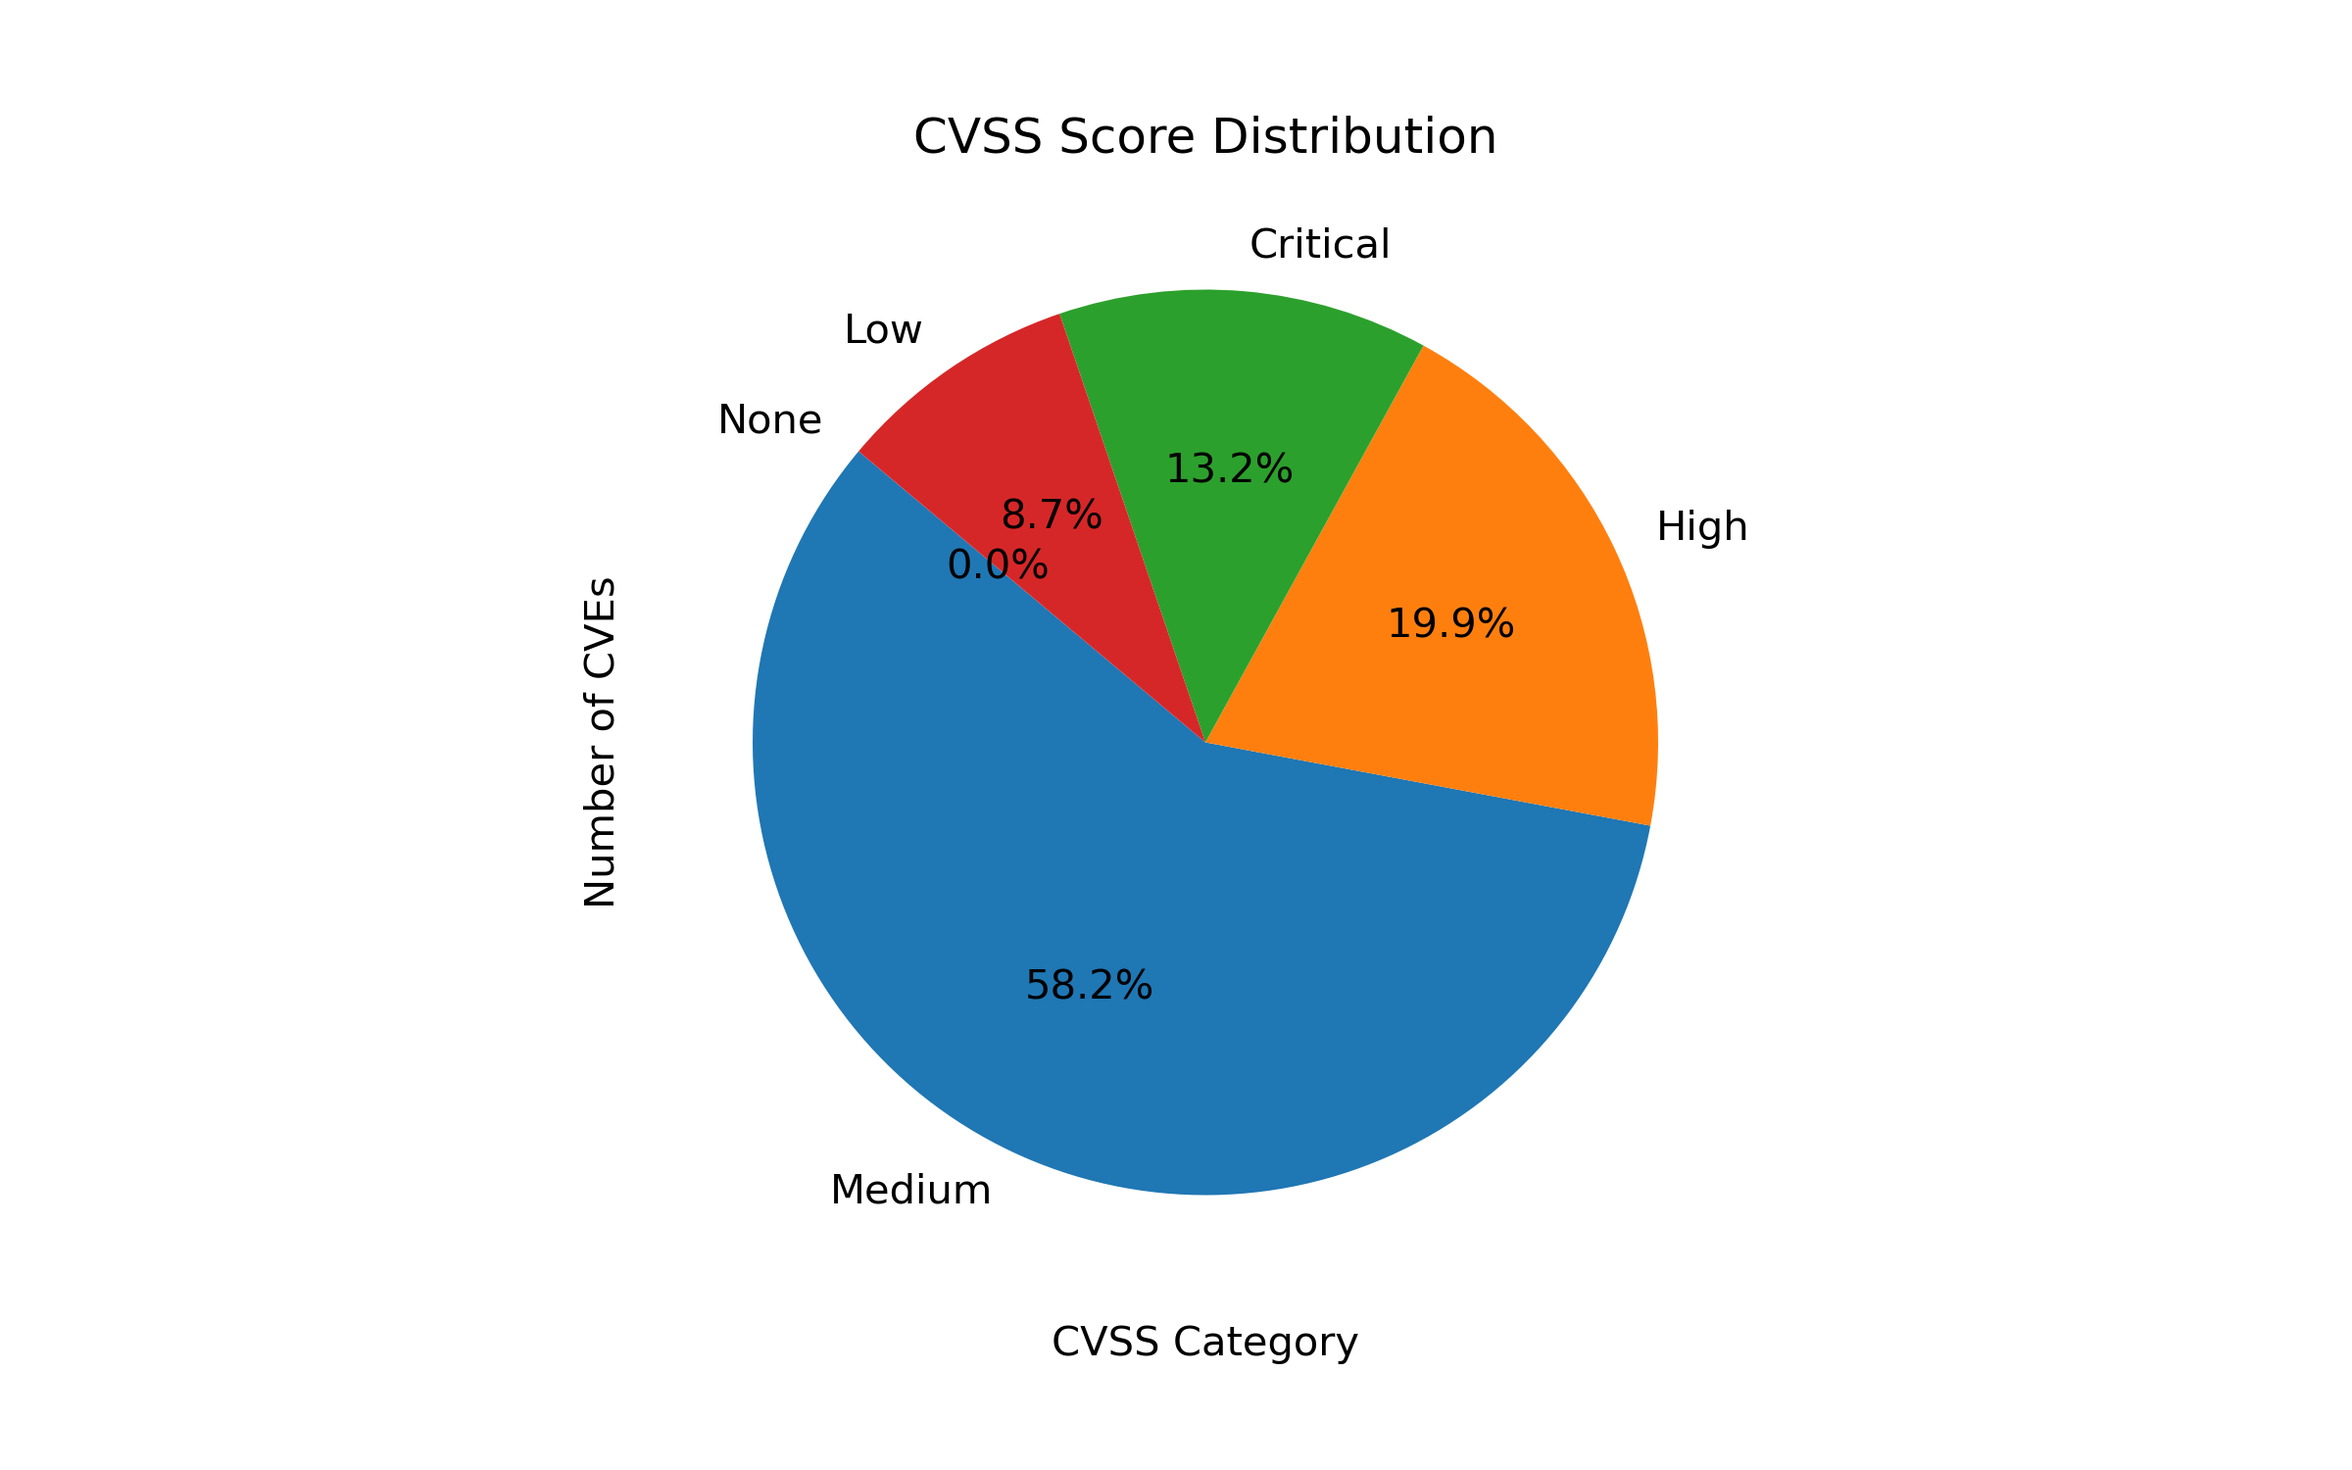
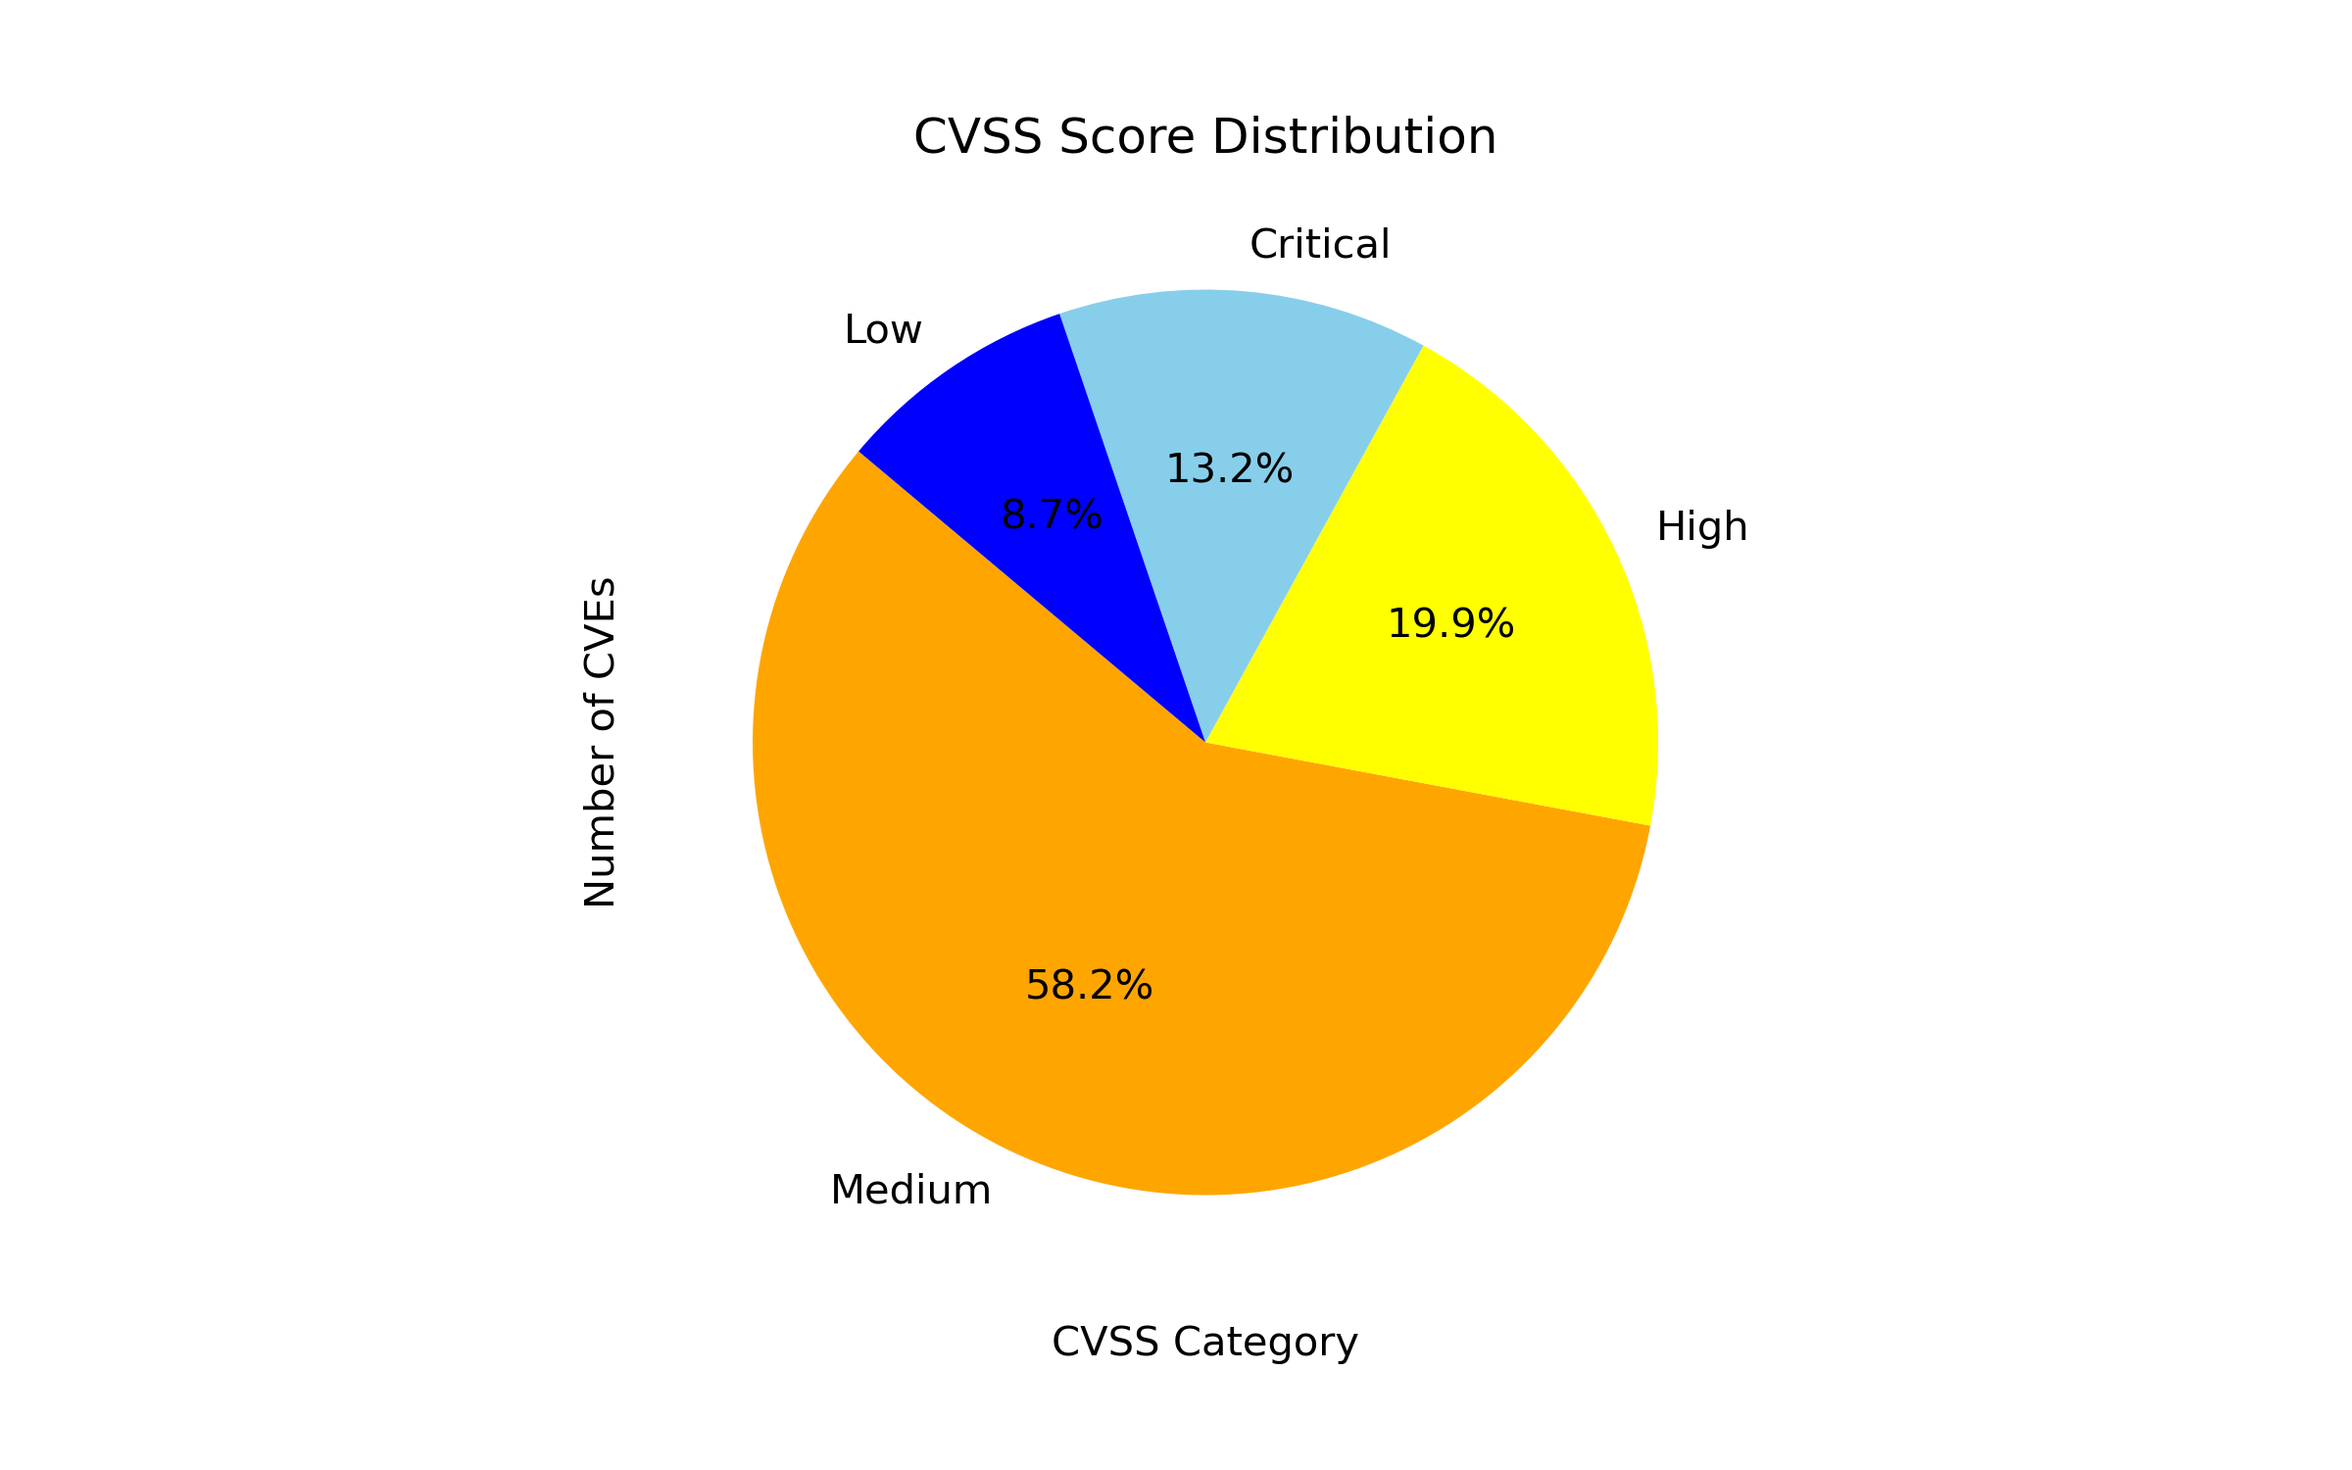
week2 update

Changed region(s): [[0.3125, 0.184, 0.7188, 0.828]]

diff --git a/cve_parser.py b/cve_parser.py
@@ -22,7 +22,7 @@ def count_cves_per_year(cve_data):
 
 # Function to parse different attack vectors
 def attack_vector_parse(cve_data):
-    """Parse and visualize the 'access_vector' data from CVE dataset."""
+    # Parse and visualize the 'access_vector' data from CVE dataset.
     
     # Count the number of occurrences for each attack vector
     attack_vector_count = cve_data['access_vector'].value_counts().reset_index()
@@ -33,14 +33,10 @@ def attack_vector_parse(cve_data):
 
     # Plotting
     plt.figure(figsize=(8, 5))
-    plt.bar(attack_vector_count['access_vector'], attack_vector_count['Count'], 
-            color=['#1f77b4', '#ff7f0e', '#2ca02c', '#d62728'])
-
+    plt.pie(attack_vector_count['Count'], 
+            labels=attack_vector_count['access_vector'], autopct='%1.1f%%',
+            startangle=140)
     plt.title('Attack Vector Distribution')
-    plt.xlabel('Access Vector')
-    plt.ylabel('Count')
-    plt.xticks(rotation=45, ha='right')
-    plt.grid(axis='y', linestyle='--', alpha=0.5)
 
     # Save and display the chart
     plt.tight_layout()
@@ -72,14 +68,15 @@ def impact_parse(cve_data):
         print(impact_counts)
 
         # Plotting
+        colors = ['orange', 'lightblue', 'blue']
         plt.figure(figsize=(8, 5))
-        plt.bar(impact_counts[impact], impact_counts['Count'], 
-                color=['#1f77b4', '#ff7f0e', '#2ca02c'])
+        plt.pie(impact_counts['Count'], 
+                labels=impact_counts[impact], 
+                autopct='%1.1f%%', 
+                startangle=140,
+                colors=colors)
 
         plt.title(f'{impact} Impact Distribution')
-        plt.xlabel('Impact Level')
-        plt.ylabel('Count')
-        plt.xticks(rotation=45, ha='right')
         plt.grid(axis='y', linestyle='--', alpha=0.5)
 
         # Save and display the chart
@@ -99,7 +96,7 @@ def cves_show(cves_per_year):
     plt.figure(figsize=(8, 5))
     plt.plot(cves_over_time['year'].astype(str), 
              cves_over_time['Count'], 
-             linestyle='-', color='black')
+             linestyle='-', color='darkblue')
 
     plt.title('CVEs Over Time')
     plt.xlabel('Years')
@@ -113,3 +110,103 @@ def cves_show(cves_per_year):
 
     # Display the chart
     plt.show()
+
+def impact_parse_grouped(cve_data):
+    """Draw a grouped bar chart comparing impact levels across dimensions."""
+
+    import numpy as np
+
+    # List of impact categories
+    impact_columns = [
+        'impact_confidentiality',
+        'impact_integrity',
+        'impact_availability'
+    ]
+
+    # Dictionary to store parsed data
+    impact_data = {}
+
+    for impact in impact_columns:
+        impact_counts = cve_data[impact].value_counts().reset_index()
+        impact_counts.columns = ['Impact Level', 'Count']
+        impact_counts.set_index('Impact Level', inplace=True)
+        impact_data[impact] = impact_counts
+
+    # Create a combined DataFrame
+    df = pd.concat(impact_data, axis=1)
+    df.columns = df.columns.droplevel(1)  # Flatten multi-index
+    df = df.reindex(['NONE', 'PARTIAL', 'COMPLETE'])
+
+    # Bar plot setup
+    x = np.arange(len(df.index))
+    width = 0.25
+
+    plt.figure(figsize=(10, 6))
+    plt.bar(x - width, df['impact_confidentiality'], width, label='Confidentiality', color='#a6bddb')
+    plt.bar(x, df['impact_integrity'], width, label='Integrity', color='#3690c0')
+    plt.bar(x + width, df['impact_availability'], width, label='Availability', color='#0570b0')
+
+    plt.xlabel('Impact Level')
+    plt.ylabel('Count')
+    plt.title('Impact Level Distribution Across Dimensions')
+    plt.xticks(x, df.index)
+    plt.legend(title='Impact Type')
+    plt.tight_layout()
+    plt.savefig('./figures/impact_level_distribution_grouped.png', dpi=300, transparent=True)
+    plt.show()
+
+
+def vulnerable_product_parser_top3(products_data):
+    # Ensure column names are stripped and in lowercase
+    print(products_data.columns)
+    print(products_data.head(10)) 
+    products_data.columns = products_data.columns.str.strip().str.lower()
+    
+    # Extract year from CVE ID (e.g., 'CVE-2019-12345' → 2019)
+    products_data['year'] = products_data['cve_id'].str.extract(r'CVE-(\d{4})')[0].astype(int)
+
+    # Filter to include only the last 5 years
+    products_data = products_data[products_data['year'] >= (products_data['year'].max() - 4)]
+
+    # Count occurrences of each product per year
+    grouped = products_data.groupby(['year', 'vulnerable_product']).size().reset_index(name='Count')
+
+    # Get top 3 products per year
+    top3_per_year = grouped.groupby('year').apply(lambda x: x.nlargest(3, 'Count')).reset_index(drop=True)
+
+    # Pivot for plotting
+    pivot_df = top3_per_year.pivot(index='vulnerable_product', columns='year', values='Count').fillna(0)
+
+    # Plot
+    pivot_df.T.plot(kind='bar', figsize=(12, 6), width=0.7)
+    plt.xlabel('Year')
+    plt.ylabel('Number of Vulnerabilities')
+    plt.title('Top 3 Vulnerable Products Per Year')
+    plt.legend(title='Product', bbox_to_anchor=(1.05, 1), loc='upper left')
+    plt.tight_layout()
+    plt.savefig('./figures/top_3_vulnerable_products_per_year.png', dpi=300, transparent=True)
+    plt.show()
+
+    return top3_per_year
+
+
+def vulnerable_product_parser(products_data):
+    # Ensure column names are stripped and in lowercase
+    products_data.columns = products_data.columns.str.strip().str.lower()
+
+    # Count total CVEs per product
+    product_counts = products_data['vulnerable_product'].value_counts().nlargest(10).reset_index()
+    product_counts.columns = ['Product', 'CVE Count']
+
+    # Plot horizontal bar chart
+    plt.figure(figsize=(10, 6))
+    plt.barh(product_counts['Product'], product_counts['CVE Count'], color='blue')
+    plt.xlabel('Number of CVEs')
+    plt.ylabel('Product')
+    plt.title('Top 10 Most Affected Products')
+    plt.gca().invert_yaxis()  # Highest value at the top
+    plt.tight_layout()
+    plt.savefig('./figures/top_10_vulnerable_products.png', dpi=300, transparent=True)
+    plt.show()
+
+    return product_counts

diff --git a/dataset_loader.py b/dataset_loader.py
@@ -7,19 +7,19 @@ def load_data():
     print(f"Load Dataset Function Call! ")
     cve = pd.read_csv('./dataset/cve.csv')  
     products = pd.read_csv('./dataset/products.csv')
-    vendor_product = pd.read_csv('./dataset/vendor_product.csv')
+    #vendor_product = pd.read_csv('./dataset/vendor_product.csv')
     vendors = pd.read_csv('./dataset/vendors.csv')  
 
     # Cleanup Function Call!
-    cve_cleaned, products_cleaned, vendor_product_cleaned, vendors_cleaned = cleanup(cve, products, vendor_product, vendors)
+    cve_cleaned, products_cleaned, vendors_cleaned = cleanup(cve, products, vendors)
 
     # CVSS categorisation # this will add a new column to the dataset to annotate the cvss score to a rating either Low, Medium, High, Critical
     cve_cleaned = add_cvss_category(cve_cleaned)
     
-    return cve_cleaned, products_cleaned, vendor_product_cleaned, vendors_cleaned
+    return cve_cleaned, products_cleaned, vendors_cleaned
 
 
-def cleanup(cve, products, vendor_product, vendors):
+def cleanup(cve, products, vendors):
 
     print(f"Cleanup Function Call! ")
     
@@ -45,11 +45,12 @@ def cleanup(cve, products, vendor_product, vendors):
     # Remove rows with missing (NaN) values in the specified columns
     cve_cleaned = cve.dropna(subset=columns_to_check)
 
+    cve_cleaned = cve_cleaned[cve_cleaned['cvss'] != 0]  # Remove rows with CVSS score of 0
+
     # Report the number of rows after cleaning
     after_cleaning = len(cve_cleaned)
     delta = before_cleaning - after_cleaning
 
-    #print(f"Rows after cleaning: {after_cleaning}")
     print(f"CVEs - rows removed (cleaned): {delta}")
 
     # Remove duplicate CVE IDs
@@ -57,21 +58,15 @@ def cleanup(cve, products, vendor_product, vendors):
     cve_cleaned = cve_cleaned.drop_duplicates(subset=cve_cleaned.columns[0])  # Assuming CVE ID is the first column
     after_dedup = len(cve_cleaned)
     duplicates_removed = before_dedup - after_dedup
+    
     print(f"Duplicate CVE entries removed: {duplicates_removed}")
 
     # Clean products DataFrame
     products_cleaned = products.dropna(subset=['cve_id', 'vulnerable_product'])
     print(f"Products - rows removed: {len(products) - len(products_cleaned)}")
 
-    # Clean vendor_product DataFrame
-    vendor_product_cleaned = vendor_product.dropna(subset=['vendor', 'product'])
-    print(f"Vendor_Product - rows removed: {len(vendor_product) - len(vendor_product_cleaned)}")
-
     # Clean vendors DataFrame
     vendors_cleaned = vendors.dropna(subset=['vendor'])
     print(f"Vendors - rows removed: {len(vendors) - len(vendors_cleaned)}")
-
-    # I want to print some blank space before entering the new feature
-    print("\n\n\n\n")
           
-    return cve_cleaned, products_cleaned, vendor_product_cleaned, vendors_cleaned
+    return cve_cleaned, products_cleaned, vendors_cleaned

diff --git a/main.py b/main.py
@@ -10,7 +10,7 @@ from dataset_loader import load_data
 from cvss_categoriser import add_cvss_category, cvss_statistics, cvss_show
 from vendors_parser import vendors_statistics, vendors_show
 from cwe_parser import cwes_statistics, cwes_show
-from cve_parser import count_cves_per_year, cves_show,attack_vector_parse,impact_parse
+from cve_parser import count_cves_per_year, cves_show,attack_vector_parse,impact_parse,impact_parse_grouped,vulnerable_product_parser
 
 def print_cve_info(cve):
     """Display basic CVE information."""
@@ -18,11 +18,12 @@ def print_cve_info(cve):
     print(cve.info())
 
 def main():
-    """Main execution function."""
+    # Main execution function
     print("Analysis and Reporting Module")
+    print("===================================\n")
 
-    # Load the data
-    cve, products, vendor_product, vendors = load_data()
+    # Load the data and clean it
+    cve, products, vendors = load_data()
 
     # CVSS Analysis
     cvss_counts = cvss_statistics(cve)
@@ -32,23 +33,27 @@ def main():
     # print_cve_info(vendors)
 
     # Vendors Analysis
-    # vendors_count = vendors_statistics(vendors)
-    # vendors_show(vendors_count)
+    vendors_count = vendors_statistics(vendors)
+    vendors_show(vendors_count)
 
     # CWE Analysis
     cwes_count = cwes_statistics(cve)
     cwes_show(cwes_count)
-
+    
     # CVEs per Year
     cves_per_year = count_cves_per_year(cve)
     cves_show(cves_per_year)
 
     # Attack Vector Statistics
-    # attack_vector_parse(cve)
+    attack_vector_parse(cve)
 
     # Impact Statistics
-    # impact_parse(cve)
+    impact_parse(cve)
+    impact_parse_grouped(cve)
     
+    # vulnerable products
+    print(products.columns)
+    vulnerable_product_parser(products)
     # Cleanup
     del cve, products, vendor_product, vendors, cvss_counts
 

diff --git a/cvss_categoriser.py b/cvss_categoriser.py
@@ -12,12 +12,12 @@ def categorise_cvss(score):
     elif 1.0 <= score < 4.0:
         return 'Low'
     else:
-        return 'None'
+        return print(f"Invalid CVSS score: {score}. It should be a number between 0 and 10.")
 
 def add_cvss_category(cve_df):
     """Add the CVSS category column to the DataFrame."""
     cve_df['cvss_category'] = cve_df['cvss'].apply(categorise_cvss)
-    print(f" cvss_category Column has been added! ")
+    print(f"cvss_category Column has been added! ")
     print("\n\n")
 
     return cve_df
@@ -31,10 +31,11 @@ def cvss_statistics(cve_df):
     return cvss_counts_df
 
 def cvss_show(cvss_counts):
-    """ draw the figure and save it in figures folder """
-    """ Bar chart visualization """
+    # draw the figure and save it in figures folder
+    colors = ['orange', 'yellow', 'skyblue', 'blue']
+        
     plt.figure(figsize=(8, 5))
-    plt.pie(cvss_counts['Count'], labels=cvss_counts['CVSS Category'], autopct='%1.1f%%', startangle=140)
+    plt.pie(cvss_counts['Count'], labels=cvss_counts['CVSS Category'], autopct='%1.1f%%', startangle=140, colors=colors)
 
     plt.title('CVSS Score Distribution')
     plt.xlabel('CVSS Category')

diff --git a/vendors_parser.py b/vendors_parser.py
@@ -13,17 +13,17 @@ def vendors_statistics(vendors):
 # Function to display vendor data
 def vendors_show(vendors_count):
     """ draw the figure and save it in figures folder """
-    """ Bar chart visualization """
-# Ensure only top 10 vendors are plotted
+    # Ensure only top 10 vendors are plotted
     top_10_vendors = vendors_count.nlargest(10, 'Count')
+    top_10_vendors = top_10_vendors.sort_values(by='Count')
 
     plt.figure(figsize=(8, 5))
-    plt.bar(top_10_vendors['vendor'], top_10_vendors['Count'], 
-            color=['red', 'orange', 'yellow', 'green', 'gray'])
+    plt.barh(top_10_vendors['vendor'], top_10_vendors['Count'], 
+             color=plt.cm.viridis_r(top_10_vendors['Count'] / top_10_vendors['Count'].max()))
 
     plt.title('Top 10 Most Affected Vendors')
-    plt.xlabel('Vendor')
-    plt.ylabel('Number of CVEs')
+    plt.xlabel('Number of CVEs')
+    plt.ylabel('Vendor')
     plt.xticks(rotation=45, ha='right')  # Rotate labels for readability
 
     # Save the figure

diff --git a/cwe_parser.py b/cwe_parser.py
@@ -35,13 +35,13 @@ def cwes_show(cwes_count):
     cwe_labels = top_10_cwes['cwe_code'].astype(str).apply(lambda x: f"CWE-{x}")
     plt.bar(cwe_labels,
             top_10_cwes['Count'], 
-            color='darkgray')
+            color='darkblue')
 
-    plt.title('Top 5 Most Affected CWEs')
+    plt.title('Top 10 Most Affected CWEs')
     plt.xlabel('CWE Code')
     plt.ylabel('Number of CWEs')
-    plt.grid(axis='y', linestyle='--', alpha=0.5)  # Improved readability
-    plt.xticks(rotation=45, ha='right')  # Rotate labels for readability
+    plt.grid(axis='y', linestyle='--', alpha=0.5)
+    plt.xticks(rotation=45, ha='right')
 
     # Save the figure
     plt.tight_layout()
